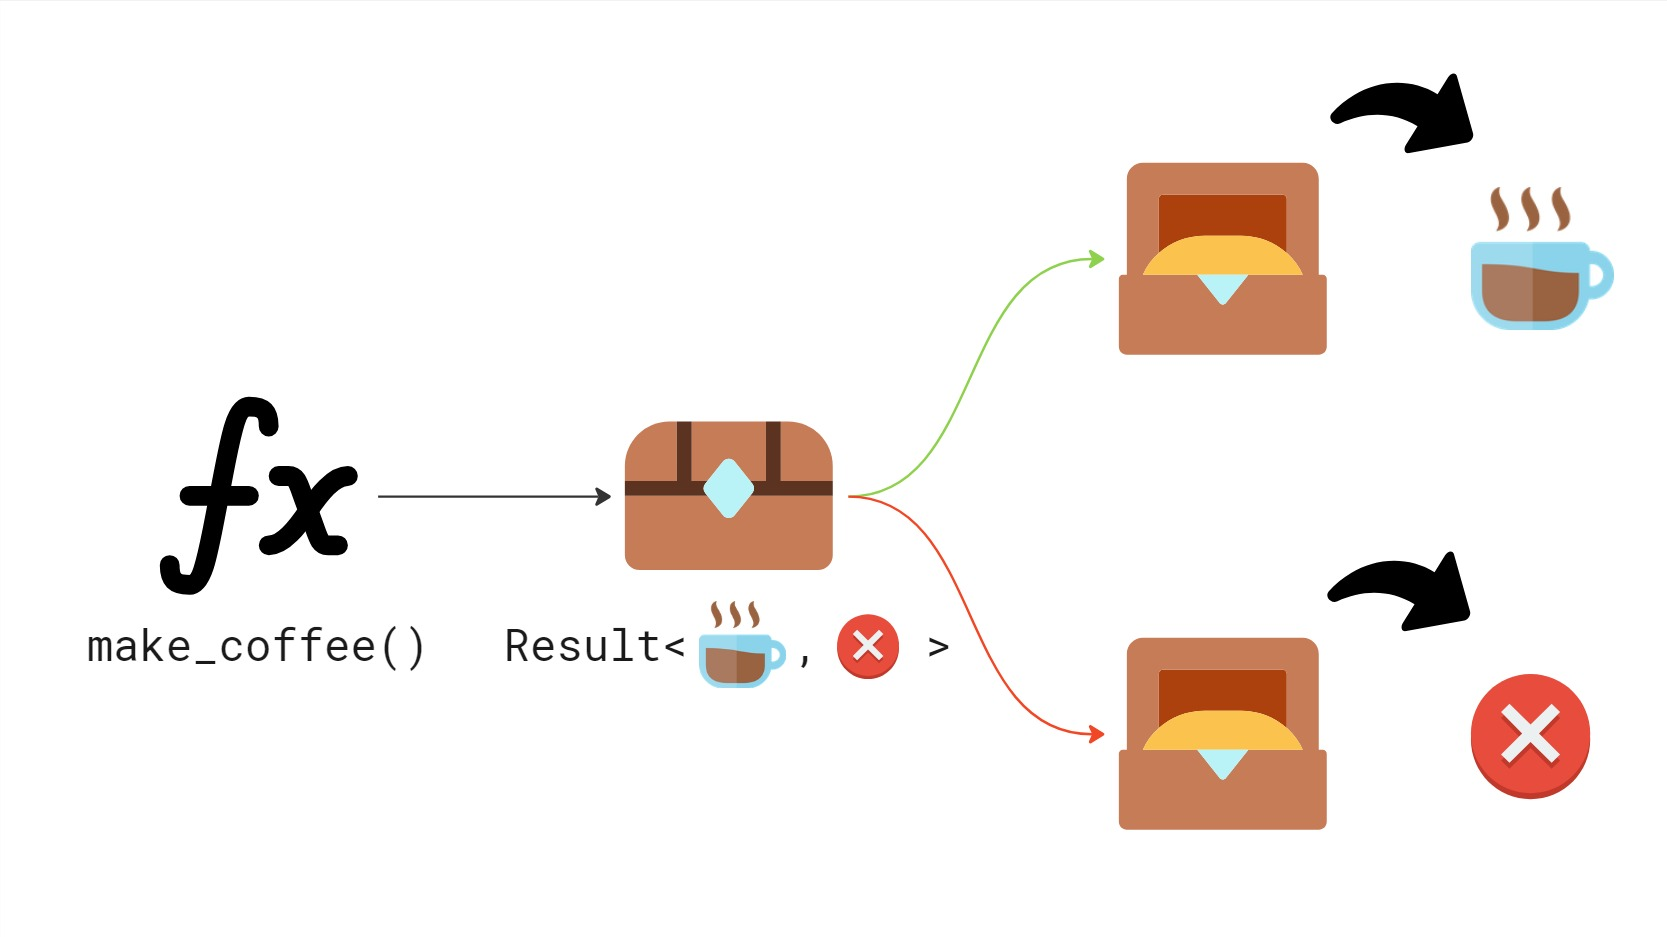
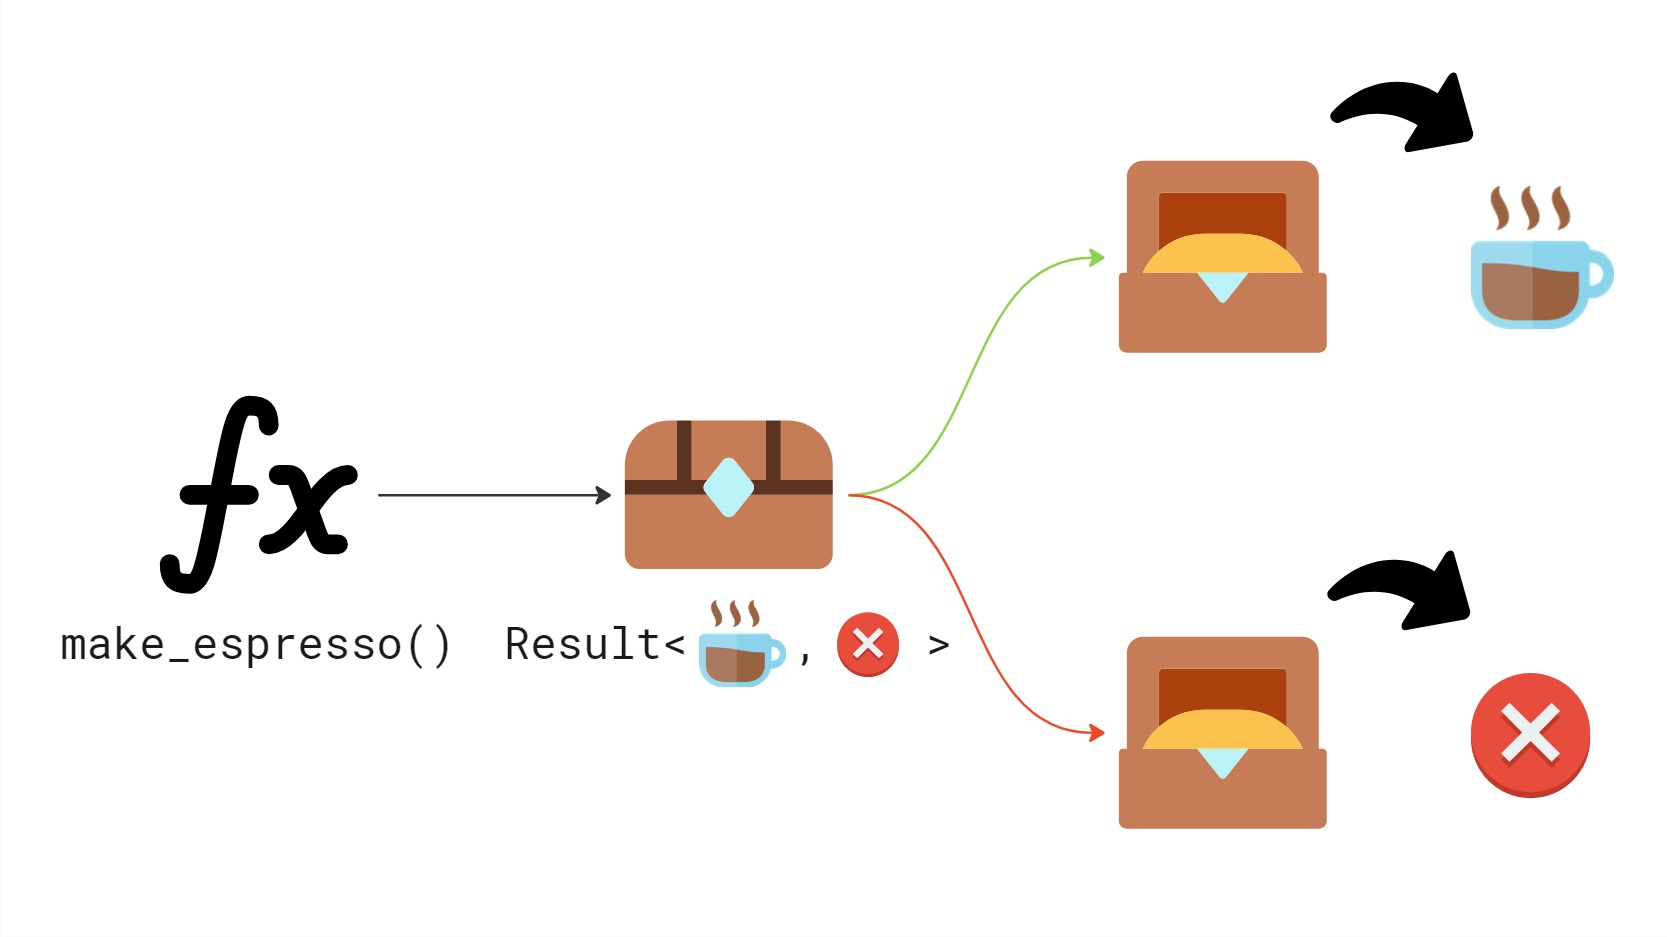
Composability

diff --git a/_examples/src/simple.rs b/_examples/src/simple.rs
@@ -4,17 +4,39 @@ pub struct CoffeeMachine {
 }
 
 #[derive(PartialEq, Debug)]
-pub struct CupOfCoffee {}
+pub struct Espresso {}
 
 impl CoffeeMachine {
-    pub fn make_espresso(&self) -> Result<CupOfCoffee, &'static str> {
+    pub fn make_espresso(&self) -> Result<Espresso, String> {
         if self.water_tank_volume < 25.0 {
-            Err("Not enough water in tank")
+            Err("Not enough water in tank".to_string())
         } else if self.available_coffee_beans < 7.0 {
-            Err("Not enough coffee beans")
+            Err("Not enough coffee beans".to_string())
         } else {
-            Ok(CupOfCoffee {})
+            Ok(Espresso {})
         }
+    }
+}
+
+#[derive(PartialEq, Debug)]
+pub struct Toast {}
+
+#[derive(PartialEq, Debug)]
+pub struct Breakfast {
+    pub espresso: Espresso,
+    pub toast: Toast,
+}
+
+pub fn make_breakfast(coffee_machine: CoffeeMachine) -> Result<Breakfast, String> {
+    match coffee_machine.make_espresso() {
+        Ok(espresso) => Ok(Breakfast {
+            espresso,
+            toast: Toast {},
+        }),
+        Err(coffee_machine_err_str) => Err(format!(
+            "The coffee machine failed to make espresso, {}",
+            coffee_machine_err_str
+        )),
     }
 }
 
@@ -24,27 +46,53 @@ mod tests {
 
     #[test]
     fn error_returned_when_making_espresso_without_beans() {
-        let machine = CoffeeMachine { water_tank_volume: 300.0, available_coffee_beans: 2.0 };
+        let machine = CoffeeMachine {
+            water_tank_volume: 300.0,
+            available_coffee_beans: 2.0,
+        };
 
         let result = machine.make_espresso();
         assert!(result.is_err());
-        assert_eq!(result, Err("Not enough coffee beans"));
+        assert_eq!(result, Err("Not enough coffee beans".to_string()));
     }
 
     #[test]
     fn error_returned_when_making_espresso_without_water() {
-        let machine = CoffeeMachine { water_tank_volume: 0.0, available_coffee_beans: 7.0 };
+        let machine = CoffeeMachine {
+            water_tank_volume: 0.0,
+            available_coffee_beans: 7.0,
+        };
 
         let result = machine.make_espresso();
         assert!(result.is_err());
-        assert_eq!(result, Err("Not enough water in tank"));
+        assert_eq!(result, Err("Not enough water in tank".to_string()));
     }
 
     #[test]
     fn espresso_is_made_with_water_and_beans() {
-        let machine = CoffeeMachine { water_tank_volume: 300.0, available_coffee_beans: 7.0 };
+        let machine = CoffeeMachine {
+            water_tank_volume: 300.0,
+            available_coffee_beans: 7.0,
+        };
 
         let result = machine.make_espresso();
         assert!(result.is_ok());
+    }
+
+    #[test]
+    fn error_returned_when_making_breakfast_without_beans() {
+        let coffee_machine = CoffeeMachine {
+            water_tank_volume: 300.0,
+            available_coffee_beans: 2.0,
+        };
+
+        let result = make_breakfast(coffee_machine);
+        assert!(result.is_err());
+        assert_eq!(
+            result,
+            Err("The coffee machine failed to make espresso, \
+                 Not enough coffee beans"
+                .to_string())
+        );
     }
 }

diff --git a/slides.md b/slides.md
@@ -9,7 +9,7 @@ footer: github.com/marekpsenka/rust-error-handling
 
 <!-- _footer: in/marek-psenka -->
 
-![bg right:33%](me.jpg)
+![bg right:33%](./img/me.jpg)
 
 Marek Pšenka
 
@@ -20,6 +20,8 @@ Marek Pšenka
 
 ---
 
+<!-- paginate: true -->
+
 ```rust
 pub struct CoffeeMachine {
     water_tank_volume: f64,
@@ -27,13 +29,13 @@ pub struct CoffeeMachine {
 }
 
 impl CoffeeMachine {
-    pub fn make_espresso(&self) -> Result<CupOfCoffee, &'static str> {
+    pub fn make_espresso(&self) -> Result<Espresso, String> {
         if self.water_tank_volume < 25.0 {
-            Err("Not enough water in tank")
+            Err("Not enough water in tank".to_string())
         } else if self.available_coffee_beans < 7.0 {
-            Err("Not enough coffee beans")
+            Err("Not enough coffee beans".to_string())
         } else {
-            Ok(CupOfCoffee {})
+            Ok(Espresso {})
         }
     }
 }
@@ -44,16 +46,22 @@ impl CoffeeMachine {
 ```rust
     #[test]
     fn error_returned_when_making_espresso_without_beans() {
-        let machine = CoffeeMachine { water_tank_volume: 300.0, available_coffee_beans: 2.0 };
+        let machine = CoffeeMachine {
+            water_tank_volume: 300.0,
+            available_coffee_beans: 2.0,
+        };
 
         let result = machine.make_espresso();
         assert!(result.is_err());
-        assert_eq!(result, Err("Not enough coffee beans"));
+        assert_eq!(result, Err("Not enough coffee beans".to_string()));
     }
 
     #[test]
     fn espresso_is_made_with_water_and_beans() {
-        let machine = CoffeeMachine { water_tank_volume: 300.0, available_coffee_beans: 7.0 };
+        let machine = CoffeeMachine {
+            water_tank_volume: 300.0,
+            available_coffee_beans: 7.0,
+        };
 
         let result = machine.make_espresso();
         assert!(result.is_ok());
@@ -132,5 +140,55 @@ fn open_nonexistent_file() {
         Ok(file) => drop(file),
         Err(err) => println!("open() failed: {}", err),
     }
+}
+```
+
+---
+
+## Composing to make breakfast
+
+```rust
+pub struct Breakfast {
+    pub espresso: Espresso,
+    pub toast: Toast,
+}
+
+pub fn make_breakfast(coffee_machine: CoffeeMachine) -> Result<Breakfast, String> {
+    match coffee_machine.make_espresso() {
+        Ok(espresso) => Ok(Breakfast {
+            espresso,
+            toast: Toast {},
+        }),
+        Err(coffee_machine_err_str) => Err(format!(
+            "The coffee machine failed to make espresso, {}",
+            coffee_machine_err_str
+        )),
+    }
+}
+```
+
+---
+
+![bg](./img/composition.jpg)
+
+---
+
+## Composability is desirable
+
+Is `String` a desirable error type? It is composable but DIY:
+
+```rust
+        Err(coffee_machine_err_str) => Err(format!(
+            "The coffee machine failed to make espresso, {}",
+            coffee_machine_err_str
+        )),
+```
+
+What about the standard library?
+
+```rust
+pub trait Error: Debug + Display {
+    fn source(&self) -> Option<&(dyn Error + 'static)> { ... }
+    fn provide<'a>(&'a self, request: &mut Request<'a>) { ... }
 }
 ```
